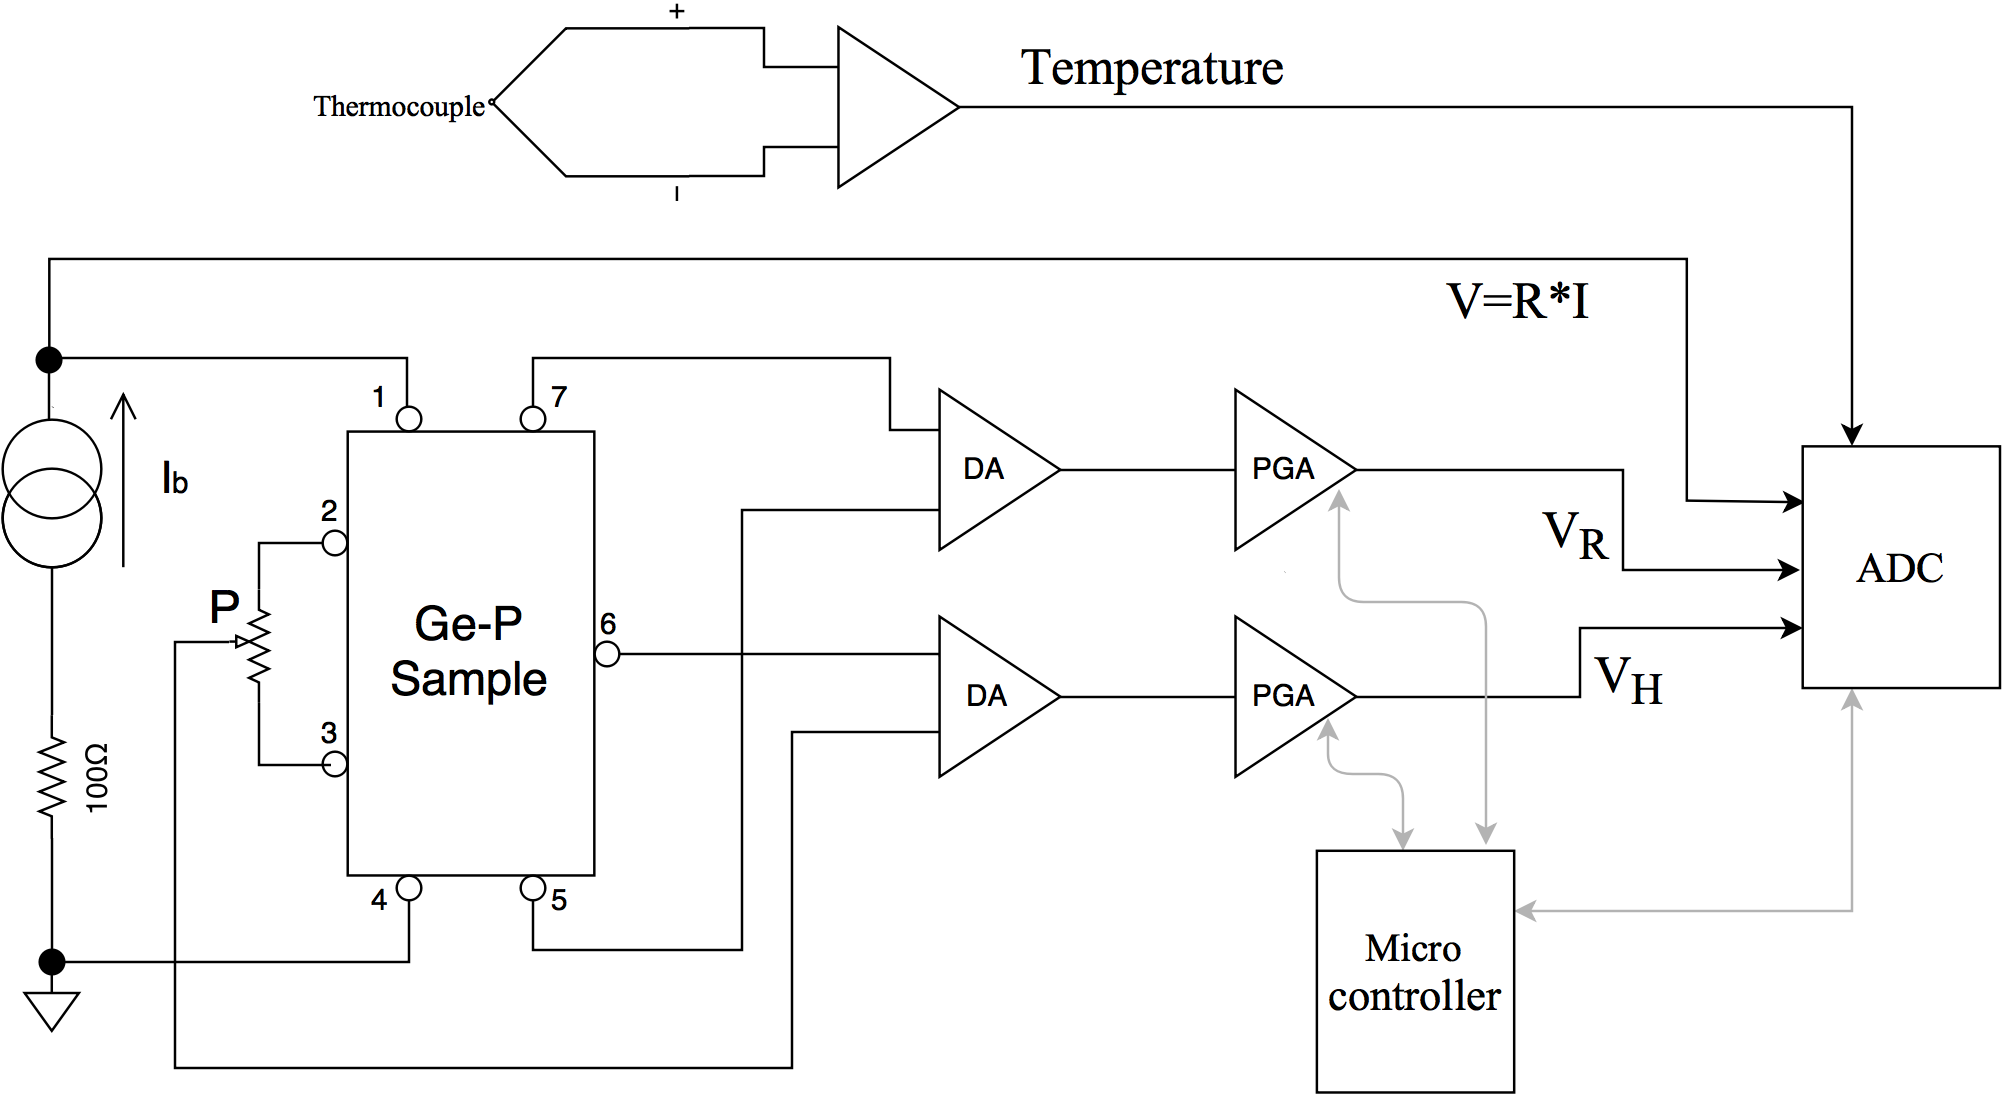
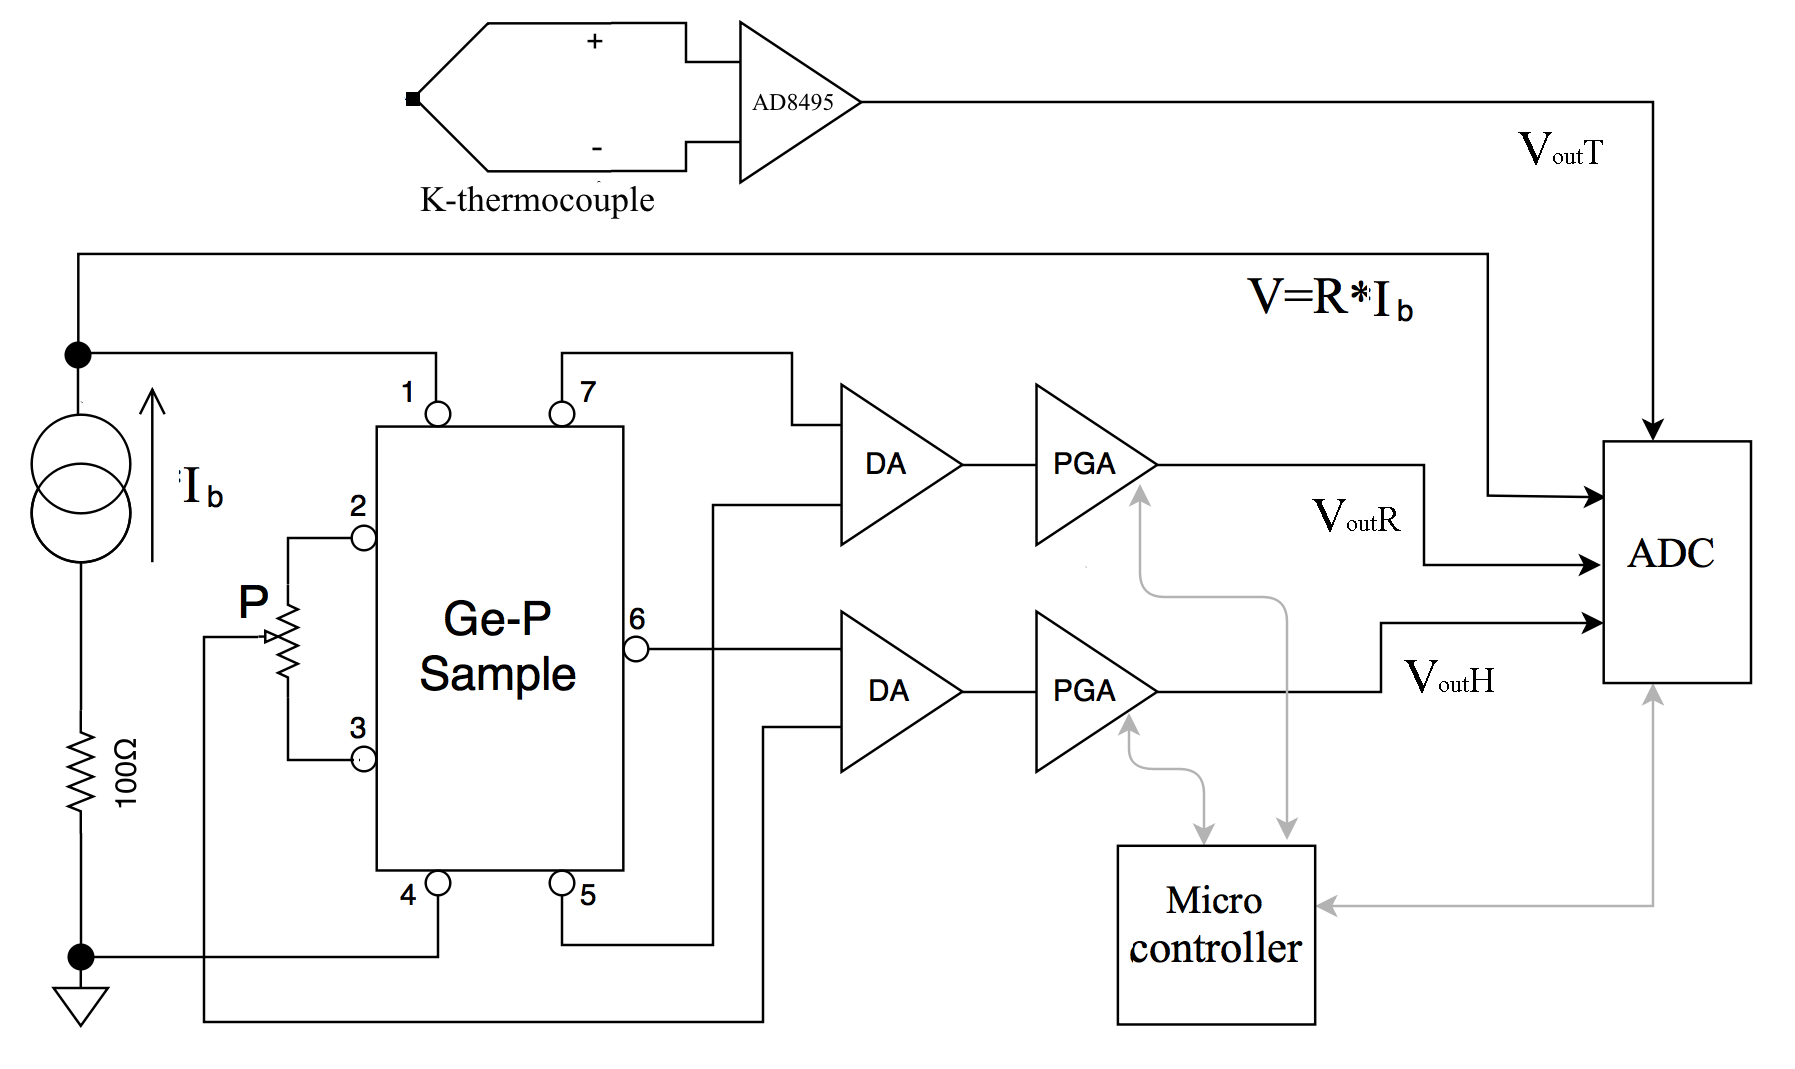
changes GT

diff --git a/Handbook/Hall_Handbook.md b/Handbook/Hall_Handbook.md
@@ -233,11 +233,11 @@ The sample has 7 wires tin soldered in the positions shown in figure {@fig:sampl
 
 
 *   Contacts 1 and 4 are used to feed the bias current Ib produced by a constant current generator [fix, see figure x]
-*   Contacts 7 and 5 are used to measure (through a differential amplifier, DA for short) the voltage across the sample, in a 4-wire (often called kelvin) resistance measurement. 
+*   Contacts 7 and 5 are used to measure (through a differential amplifier, DA for short) the voltage across the sample, in a 4-wire resistance measurement. 
 *   Contacts 2-3 and 6 are the output of the Hall voltage and fed to the a second DA. 
 
     Contact 6 is the reference point for the  Hall voltage and contacts 2 and 3 are used to set the balancing potentiometer P after having removed the sample from the magnetic field (the Hall voltage should be zero in absence of applied magnetic field). 
-    The potentiometer P is needed  since the contacts 2 and 3 cannot be precisely positioned.
+    *Three contacts* are needed for the Hall voltage because *two contacts cannot be precisely aligned.
     
 ![Printed circuit board with germanium sample and thermocuple](Media/sample_pcb.jpg){#fig:sample_pcb}
     
@@ -246,7 +246,7 @@ The DA outputs are amplified by Programmable Gain Amplifiers (PGA for short) who
 
 The numbering of the contact on the sample corresponds to the number of the pins in the rj45 connector of the sample assembly.
 
-The two DAs have fixed gains $G$, set to $0.5$ for $V_r$ and to $100$ for $V_H$[^GainMayChange], and they're powered from a $\pm 15V$ power supply. 
+The two DAs have fixed gains $G$, set to $0.5$ for $V_{out}$$_R$ and to $100$ for $V_{out}$$_H$[^GainMayChange], and they're powered from a $\pm 15V$ power supply. 
 
 
 [^GainMayChange]: The gain can change due to specifications and calibration. Please refer to the values calculated on the screen of the device.
@@ -256,7 +256,7 @@ The PGA gains are selectable among the following values $G_{ PGA}= \{ 1,2,5,10,2
 
 The output voltages on the front panel are restrained in a number of cases:
 
-*   If the input voltage is $V_r > \frac{30}{G}$ the  DA saturates.
+*   If the input voltage is $V_{out} > \frac{30}{G}$ the  DA saturates.
 *   If the output of the DA is not $0 < V_{out} < 5.1$ it is clamped down by a Schottky diode to prevent damage to the circuitry.
 *   If the output voltage of a PGA is not $0 < V_{out} < 5$ the PGA saturates
 * 	If the $I_b$  current is set to values smaller than 7 mA or greater than 25 mA a warning message appears  (“TOO LOW !”  or “TOO HIGH !” respectively), because the constant current generator does not work properly outside of this range. 
@@ -271,7 +271,7 @@ The best value for the bias current is a compromise between the need to obtain a
 ### Hall voltage and resistance measurements at room temperature
 
 With a finite value of magnetic field B orthogonal to the large face of the sample, we should measure identical values for $V_H$ (but with opposite sign) when rotating of $180\,^{\circ}$ the sample.
-This behavior must be tested before proceeding to further measurements: if reversing the $B$ direction (i.e. rotating the sample of $180\,^{\circ}$ degrees) different values are measured, the offsets should be better adjusted using potetiometer P in figure {@fig:sample_circuitry}.
+This behavior must be tested before proceeding to further measurements: if reversing the $B$ direction (i.e. rotating the sample of $180\,^{\circ}$ degrees) different values are measured, the offsets should be better adjusted using potentiometer P in figure {@fig:sample_circuitry}.
 
 The absolute value of $B$ may be varied by changing the width of the gap between the magnetic poles (see figure {@fig:screwDevice}).
 One of the two permanent-magnets mounted on the soft-steel structure may be moved horizontally by turning the brass-screw: increasing the gap, the value of $B$ decreases.
@@ -282,17 +282,9 @@ One of the two permanent-magnets mounted on the soft-steel structure may be move
 \ 
 
 
-A calibration of the magnetic field $B$ as a function of the gap may be made using a gauss-meter probe placed between the poles (see figure [fix]).
+A calibration of the magnetic field $B$ as a function of the gap may be made using a gauss-meter probe placed between the poles (see next chapter [fix]).
 
 The magnetic field $B$ may be calibrated using a gauss-meter probe placed at the center between the poles.
-
-![Measured $B$ values vs gap length $d$](Media/image10.jpeg){#fig:BvsGapD}
-\ 
-
-![Hall voltage versus bias current $I$ ($B=4.5 kGauss$), and versus $B$ ( $I=3 mA$).](Media/image11.jpeg){#fig:HallvsIb}
-\ 
-
-Figure [fix] shows the linear dependence of $V_H$ on $I$ and $B$. Deviations from linearity at high values of the magnetic field may be explained by calculating a second order approximation of $R_H$ (Appendix 1)
 
 \clearpage
 
@@ -300,9 +292,9 @@ Figure [fix] shows the linear dependence of $V_H$ on $I$ and $B$. Deviations fro
 ### Measurements at constant $I$ and $B$ while varying the temperature
 
 
-The stainless-steel dewar can be filled of liquid nitrogen or a mixture of acetone and dry-ice (solid carbon dioxyde). The cold finger (the aluminum bar screwed into the base of the sample) is surrounded by the liquid nitrogen, allowing the sample to be brought lo low temperatures.
+The stainless-steel dewar can be filled of liquid nitrogen or a mixture of acetone and dry-ice (solid carbon dioxyde). The cold finger (the aluminum bar screwed into the base of the sample) is surrounded by the liquid nitrogen, allowing the sample to be cooled .
 
-The temperature is measured by a tipe K (Chromel-Alumel) thermocouple thermally coupled to the sample. The small voltage generated by the thermocouple is amplified by the AD8495[^AD8495] integrated circuit. The output is vaguely proportional to the temperature, with a sensitivity of $\approx 5\frac { mV }{ \,^{\circ}\mathrm{K} }$. It is successively amplified by a non-inverting amplifier (not shown in picture [fix] ) to get $\approx 10\frac { mV }{ \,^{\circ}\mathrm{K} }$ with $2.5V=273.2\,^{\circ}\mathrm{K}=0\,^{\circ}\mathrm{C}$. While the K type thermocouple is fairly linear a room temperature, it is not in the wide temperature range covered by the apparatus, as can be seen in figure {@fig:seebeckNonlinearity}.
+The temperature is measured by a type K (Chromel-Alumel) thermocouple thermally coupled to the sample. The small voltage generated by the thermocouple is amplified by an AD8495[^AD8495] integrated circuit. The output (roughly proportional to the temperature with a sensitivity of $\approx 5\frac { mV }{ \,^{\circ}\mathrm{K} }$ is amplified by a non-inverting amplifier (not shown in picture) to get $\approx 10\frac { mV }{ \,^{\circ}\mathrm{K} }$ and shifted to obtain $V_{out}$$_T$=2.5V at $273.15\,^{\circ}\mathrm{K}=0\,^{\circ}\mathrm{C}$. While the K type thermocouple is fairly linear in a small range near room temperature, it is not linear in the whole temperature range covered by the apparatus, as can be seen in figure {@fig:seebeckNonlinearity}.
 
 [^AD8495]: [AD8495 datasheet, Analog Semiconductors](http://www.analog.com/en/products/amplifiers/specialty-amplifiers/thermocouple-interface-amplifiers/AD8495.html)
 
@@ -366,39 +358,49 @@ Float thermocouple_voltage(float vout,float vref){
     return ((vout)-(vref)-THERMOCOUPLE_OFFSET)/(2*THERMOCOUPLE_GAIN);
 }
 
+
 ```
+A digitally controlled resistive element is wound around the base of the sample, allowing to heath it up after reaching room temperature. The instruments automatically shuts down if $t \ge 170\,^{\circ}\mathrm{C}$.
 
 
-### Cooling-Heating procedure
 
-To obtain accurate measurements the best procedure is the following:
+### Suggested procedure 
+
+The display on the controller box shows the sample temperature in Celsius (calculated from the measured thermocouple signal), the measured bias current $I_b$ (mA), the sample resistance (calculated from the measured voltage drop across the sample) and the selected values of the $V_H$ and $V_R$ channels.
+
+ To obtain accurate measurements the best procedure is the following:
 
 1. Connect the sample cables to the HUB and the HUB to the controller (two ethernet cables , A with A and B with B) connect all the controller outputs to your data-logger and choose an acquisition run with approximately 0.1Hz rate (i.e. 1 sample every 10 seconds) and duration at least 6000 seconds.
-2. Choose the width of gap between the permanent magnets and measure the magnetic field B in the middle. Place the sample far from the magnetic field and trim the balance-potentiometer to minimize the VH signal. Lock the potentiometer knob.
-3. PLace the sample in the middle of the gap. Choose a proper value for the current Ib within the 7-25 mA allowed range, and select the proper Gains for VH and VR channels. Note that the resistance at higher temperature may exceed the value at room temperature of a factor 2, and that also the VH signal increase with temperature. Therefore at room temperature your data-logger should read  VoutHall <0.4V and VoutR<2.5V. Check that the VoutHall values changes sign when rotating the sample of 180° around vertical axis. Choose the orientation that gives positive VoutHall.
-4.  Prepare all the data conversion you think useful, for example : from VoutR(V) and the known Ib and Gr gain values obtain R(ohm), from VoutHallH and Gh gain values obtain VH, from VoutT obtain the K-thermocouple efm 
-E E=0.5* 1000 *(VoutT-2.5-0.00125)/122.4)
-5. Fill about half of the dewar with liquid nitrogen and wait until the liquid surface is quiet.
-6. Prepare a graph with temperature vs time in your data-logger. Insert the cold finger into the dewar (the PTFE dewar-cover should seat stable onto the dewar mouth, and the PTFE heater cover should be set with the hole hosting the pin protruding from the dewar-cover). Adjust the sample in the mid of the magnet-gap and start the data acquisition.
-7. When the plot temperature vs time shows a slope close to zero, stop the data acquisition and save your data.
-8. Empty the dewar (e.g. transferring the residual liquid nitrogen into another dewar), reposition the sample in the middle of the magnets-gap and start a new data acquisition for increasing temperature.
-9. When the temperature vs. time slope start approaching zero, switch-ON the heater (Press the control knob 3 times, until the arrow reaches the OFF and turn the knob). 
+2. Choose the width of gap between the permanent magnets and measure the magnetic field B in the middle. Place the sample far from the magnetic field and trim the balance-potentiometer to minimize the $V_H$ signal. Lock the potentiometer knob.
+3. PLace the sample in the middle of the gap. Choose a proper value for the current $I_b$ within the 7-25 mA allowed range, and select the proper gains for $V_H$ and $V_R$ channels. Note that the resistance at higher temperature may exceed the value at room temperature of a factor 2, and that also the VH signal increase with temperature. Therefore at room temperature your data-logger should read  $V_{out}$$_H$ <0.4V and $V_{out}$$_R$<2.5V. 
+4. Check that the $V_H$ values changes sign when rotating the sample of 180° around vertical axis. Choose the orientation that gives positive $V_H$.
+5.  Prepare all the data conversion you think useful, for example : from $V_{out}$$_R$ and the known $I_b$ and $G_R$ gain values obtain R(ohm), from $V_{out}$$_H$ and $G_H$ gain values obtain $V_H$(mV), from $V_{out}$$_T$ obtain the K-thermocouple efm 
+E(mV) [E=0.5* 1000 *($V_{out}$$_T$-2.5-0.00125)/122.4)], from the calculated E(mV) obtain the Celsius temperature $Tc$ using the fitting polynomial,...
+6. Fill about half of the dewar with liquid nitrogen and wait until the liquid surface is quiet.
+7. Prepare a graph with temperature vs time in your data-logger. Insert the cold finger into the dewar (the PTFE dewar-cover should seat stable onto the dewar mouth, and the PTFE heater cover should be set with the hole hosting the pin protruding from the dewar-cover). Adjust the sample in the mid of the magnet-gap and start the data acquisition.
+8. When the plot temperature vs time shows a slope close to zero, stop the data acquisition and save your data.
+9. Empty the dewar (e.g. transferring the residual liquid nitrogen into another dewar), reposition the sample in the middle of the magnets-gap and start a new data acquisition for increasing temperature.
+10. When the temperature vs. time slope start approaching zero, switch-ON the heater (Press the control knob 3 times, until the arrow reaches the OFF and turn the knob). 
 
-
-
-   cool the sample at the lowest temperature by placing  into the dewar (about 1/2 liter) until a stable temperature is reached, then manually empty the dewar letting it slowly drift up to room temperature (due to the unavoidable thermal coupling sample-to-ambient).
-
-During the cooling process measurements may be taken, but the rapid cooling generates a large thermal gradient across the apparatus that makes such measurements less reliable.
-
-A digitally controlled resistive element is wound around the base of the sample, allowing to heath it up after reaching room temperature. The instruments automatically shuts down if $t \ge 150\,^{\circ}\mathrm{C}$.
-
-Measurements can be obtained by feeding the analog outputs on the front panel to a data-logger and setting a suitable acquisition rate (e.g. a few samples/minute)
-
-To obtain precise measurements, at least one complete hour is required for the whole temperature sweep.
+To obtain precise measurements, at least one hour is required for the whole temperature sweep.
 
 ### Typical results
 
 The sample shown in this example has thickness $t=0.5mm$, width $w=10mm$ and lenght $l=15mm$.
+
+An example of calibration of the magnetic field intensity $B$ vs. gap $d$ between magnets is shown in figure 6. 
+
+![Measured $B$ values vs gap length $d$](Media/image10.jpeg){#fig:BvsGapD}
+\ 
+
+An example of the measured $V_H$ vs.absolute temperature $T$ and vs. bias current $I_b$  are shown in figure 7.
+
+![Hall voltage versus bias current $I$ ($B$=4.5  kGauss), and versus $B$ ( $I$=3 mA).](Media/image11.jpeg){#fig:HallvsIb}
+\ 
+
+Figure [fix] shows the linear dependence of $V_H$ on $I$ and $B$. Deviations from linearity at high values of the magnetic field may be explained by calculating a second order approximation of $R_H$ (Appendix 1)
+
+
 The measured Hall voltage and resistance vs temperature (with a constant bias current of $I_B=30mA$ and in a $0.5T$ magnetic field) is shown in figure [fix].
 
 In figure [fix] the resistance is calculated from data of figure [fix].
